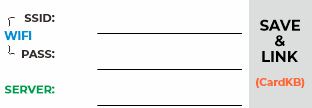
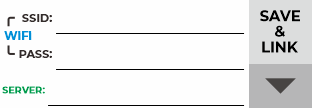
board: Add access code for fire board.

diff --git a/m5stack/modules/startup/fire/apps/dev.py b/m5stack/modules/startup/fire/apps/dev.py
@@ -6,9 +6,7 @@ from .. import app_base
 import M5
 import widgets
 import asyncio
-import requests
 from .. import res
-import os
 import binascii
 import machine
 import network
@@ -49,6 +47,13 @@ _CLOUD_STATUS_ICOS = {
     CloudStatus.DISCONNECTED: res.SERVER_ERROR_IMG,
 }
 
+_BG_COLOR = 0xEEEEEF
+_LABEL_COLOR = 0x008FD7
+_VALUE_COLOR = 0x000000
+_LABEL_FONT = "/system/common/font/Montserrat-Medium-14.vlw"
+_VALUE_FONT = "/system/common/font/Montserrat-Medium-18.vlw"
+_TEXT_PANEL_W = 181
+
 
 class DevApp(app_base.AppBase):
     def __init__(self, icos: dict, data=None) -> None:
@@ -60,9 +65,7 @@ class DevApp(app_base.AppBase):
         M5.Lcd.drawImage(res.DEVELOP_UNSELECTED_IMG, 5 + 62 * 1, 0)
 
     def on_launch(self):
-        self._mac_text = self._get_mac()
-        self._account_text = self._get_account()
-        self._bg_src = self._get_bg_src()
+        self._state = self._collect_state()
         self._status_bar_src = self._get_bar_src()
         self._network_status = self._get_network_status()
         self._cloud_status = self._get_cloud_status()
@@ -72,7 +75,6 @@ class DevApp(app_base.AppBase):
             M5.Power.getBatteryLevel(), M5.Power.isCharging()
         )
         self._battery_text = self._get_battery_text(M5.Power.getBatteryLevel())
-        self._avatar_src = self._get_avatar()
 
     def on_view(self):
         M5.Lcd.drawImage(res.DEVELOP_SELECTED_IMG, 5 + 62 * 1, 0)
@@ -83,38 +85,16 @@ class DevApp(app_base.AppBase):
         self._bg_img = widgets.Image(use_sprite=False, parent=self._lcd)
         self._bg_img.set_pos(4, 4)
         self._bg_img.set_size(312, 156)
-        self._bg_img.set_src(self._bg_src)
+        self._bg_img.set_src(res.DEVELOP_BG_IMG)
+        self._lcd.fillRect(4, 4, _TEXT_PANEL_W, 156, _BG_COLOR)
 
-        self._mac_label = widgets.Label(
-            "aabbcc112233",
-            4 + 6,
-            4 + 57,
-            w=177,
-            fg_color=0x000000,
-            bg_color=0xEEEEEF,
-            font="/system/common/font/Montserrat-Medium-18.vlw",
-            parent=self._lcd,
-        )
-        self._mac_label.set_text(self._mac_text)
+        self._mac_label, self._mac_value = self._create_row("Device MAC:", 8)
+        self._code_label, self._code_value = self._create_row("Access Code:", 59)
+        self._nick_label, self._nick_value = self._create_row("Nickname:", 110)
 
-        self._account_label = widgets.Label(
-            "XXABC",
-            4 + 6,
-            4 + 57 + 40,
-            w=110,
-            h=60,
-            fg_color=0x000000,
-            bg_color=0xEEEEEF,
-            font="/system/common/font/Montserrat-Medium-18.vlw",
-            parent=self._lcd,
-        )
-        self._account_label.set_text(self._account_text)
-
-        self._avatar_img = widgets.Image(use_sprite=False, parent=self._lcd)
-        self._avatar_img.set_pos(130, 100)
-        self._avatar_img.set_size(56, 56)
-        self._avatar_img.set_scale(0.28, 0.28)
-        self._avatar_img.set_src(self._avatar_src)
+        self._set_value(self._mac_value, self._state.get("mac", "-"))
+        self._set_value(self._code_value, self._state.get("pair_code", ""), fallback="")
+        self._set_value(self._nick_value, self._state.get("nick_name", ""), fallback="")
 
         self._bar_img = widgets.Image(use_sprite=False, parent=self._lcd)
         self._bar_img.set_pos(0, 164)
@@ -154,30 +134,17 @@ class DevApp(app_base.AppBase):
         refresh_bg = False
         refresh_bar = False
         while True:
-            t = self._get_bg_src()
-            if t != self._bg_src:
-                self._bg_src = t
-                self._bg_img.set_src(self._bg_src)
+            new_state = self._collect_state()
+
+            if new_state["pair_code"] != self._state.get("pair_code"):
+                self._state["pair_code"] = new_state["pair_code"]
+                self._set_value(self._code_value, new_state["pair_code"], fallback="")
                 refresh_bg = True
 
-            refresh_bg and self._mac_label.set_text(self._mac_text)
-
-            t = self._get_account()
-            if t != self._account_text or refresh_bg:
-                self._account_text = t
-                self._account_label.set_text(self._account_text)
-                self._lcd.push(self._origin_x, self._origin_y)
-
-            t = self._get_avatar()
-            if t != self._avatar_src:
-                self._avatar_src = t
-                try:
-                    os.stat(self._avatar_src)
-                    self._avatar_img.set_src(self._avatar_src)
-                except OSError:
-                    self._dl_task = asyncio.create_task(self._dl_avatar(self._avatar_src))
-            elif refresh_bg:
-                self._avatar_img._draw(False)
+            if new_state["nick_name"] != self._state.get("nick_name"):
+                self._state["nick_name"] = new_state["nick_name"]
+                self._set_value(self._nick_value, new_state["nick_name"], fallback="")
+                refresh_bg = True
 
             t = self._get_bar_src()
             if t != self._status_bar_src:
@@ -219,13 +186,12 @@ class DevApp(app_base.AppBase):
             await asyncio.sleep_ms(1500)
 
     def on_hide(self):
-        if hasattr(self, "_dl_task"):
-            self._dl_task.cancel()
         self._task.cancel()
 
     def on_exit(self):
         M5.Lcd.drawImage(res.DEVELOP_UNSELECTED_IMG, 5 + 62 * 1, 0)
-        del self._bg_img, self._mac_label, self._account_label, self._avatar_img
+        del self._bg_img, self._mac_label, self._mac_value
+        del self._code_label, self._code_value, self._nick_label, self._nick_value
         del self._bar_img, self._network_img, self._cloud_img, self._battery_img
         del self._battery_label
 
@@ -238,58 +204,69 @@ class DevApp(app_base.AppBase):
     async def _btnc_event_handler(self, fw):
         pass
 
-    async def _dl_avatar(self, dst):
-        if _HAS_SERVER is True and M5Things.status() == 2:
-            infos = M5Things.info()
-            if len(infos[4]) == 0:
-                self._avatar_img.set_src("/system/common/img/avatar.jpg")
-            else:
-                try:
-                    rsp = requests.get("https://community.m5stack.com" + str(infos[4]))
-                    f = open(dst, "wb")
-                    f.write(rsp.content)
-                    f.close()
-                    rsp.close()
-                    self._avatar_img.set_src(dst)
-                except:
-                    self._avatar_img.set_src("/system/common/img/avatar.jpg")
-                finally:
-                    self._lcd.push(self._origin_x, self._origin_y)
-        else:
-            self._avatar_img.set_src("/system/common/img/avatar.jpg")
+    def _create_row(self, label_text, y):
+        label = widgets.Label(
+            label_text,
+            12,
+            y,
+            w=_TEXT_PANEL_W - 18,
+            h=20,
+            fg_color=_LABEL_COLOR,
+            bg_color=_BG_COLOR,
+            font=_LABEL_FONT,
+            parent=self._lcd,
+        )
+        label.set_text(label_text)
+
+        value = widgets.Label(
+            "",
+            12,
+            y + 22,
+            w=_TEXT_PANEL_W - 18,
+            h=26,
+            fg_color=_VALUE_COLOR,
+            bg_color=_BG_COLOR,
+            font=_VALUE_FONT,
+            parent=self._lcd,
+        )
+        value.set_long_mode(widgets.Label.LONG_DOT)
+        return label, value
+
+    @staticmethod
+    def _set_value(label, text, fallback="-"):
+        text = fallback if text is None or text == "" else str(text)
+        label.set_text(text)
 
     @staticmethod
     def _get_mac():
-        return binascii.hexlify(machine.unique_id()).upper()
+        return binascii.hexlify(machine.unique_id()).decode("utf-8").upper()
 
     @staticmethod
-    def _get_account():
-        if _HAS_SERVER is True and M5Things.status() == 2:
-            infos = M5Things.info()
-            return "None" if len(infos[1]) == 0 else infos[1]
-        else:
-            return "None"
+    def _get_pair_code():
+        if _HAS_SERVER is True:
+            try:
+                if M5Things.status() == 2:
+                    return M5Things.paircode() or ""
+            except Exception:
+                pass
+        return ""
 
     @staticmethod
-    def _get_avatar():
-        if _HAS_SERVER is True and M5Things.status() == 2:
-            infos = M5Things.info()
-            if len(infos[4]) == 0:
-                return "/system/common/img/avatar.jpg"
-            else:
-                return "/system/common/img/" + str(infos[4]).split("/")[-1]
-        else:
-            return "/system/common/img/avatar.jpg"
+    def _get_nick_name():
+        if _HAS_SERVER is True:
+            try:
+                if M5Things.status() == 2:
+                    return M5Things.nick_name() or ""
+            except Exception:
+                pass
+        return ""
 
-    def _get_bg_src(self):
-        if _HAS_SERVER is True and M5Things.status() == 2:
-            infos = M5Things.info()
-            if infos[0] == 0:
-                return "/system/fire/developPrivate.png"
-            elif infos[0] in (1, 2):
-                return "/system/fire/developPublic.png"
-        else:
-            return "/system/fire/developPrivate.png"
+    def _collect_state(self):
+        return {
+            "mac": self._get_mac(),
+            "pair_code": self._get_pair_code(),
+            "nick_name": self._get_nick_name(),
+        }
 
     def _get_bar_src(self):
         if _HAS_SERVER is True and M5Things.status() == 2:

diff --git a/m5stack/modules/startup/fire/apps/app_run.py b/m5stack/modules/startup/fire/apps/app_run.py
@@ -12,13 +12,6 @@ import os
 import time
 from .. import res
 
-try:
-    import M5Things
-
-    _HAS_SERVER = True
-except ImportError:
-    _HAS_SERVER = False
-
 
 class RunApp(app_base.AppBase):
     def __init__(self, icos: dict, data=None) -> None:
@@ -28,7 +21,7 @@ class RunApp(app_base.AppBase):
         M5.Lcd.drawImage(res.APPRUN_UNSELECTED_IMG, 5 + 62 * 2, 0)
 
     def on_launch(self):
-        self._mtime_text, self._account_text, self._ver_text = self._get_file_info("main.py")
+        self._mtime_text, self._ver_text = self._get_file_info("main.py")
 
     def on_view(self):
         M5.Lcd.drawImage(res.APPRUN_SELECTED_IMG, 5 + 62 * 2, 0)
@@ -58,21 +51,10 @@ class RunApp(app_base.AppBase):
         )
         self._mtime_label.set_text(self._mtime_text)
 
-        self._account_label = widgets.Label(
-            "Account: XXABC",
-            4 + 10 + 8,
-            (56 + 4) + 4 + 20 + 6 + 18,
-            w=312,
-            fg_color=0x000000,
-            bg_color=0xDCDDDD,
-            font="/system/common/font/Montserrat-Medium-16.vlw",
-        )
-        self._account_label.set_text(self._account_text)
-
         self._ver_label = widgets.Label(
             "Ver: UIFLOW2.0 a18",
             4 + 10 + 8,
-            (56 + 4) + 4 + 20 + 6 + 18 + 18,
+            (56 + 4) + 4 + 20 + 6 + 18,
             w=312,
             fg_color=0x000000,
             bg_color=0xDCDDDD,
@@ -88,7 +70,7 @@ class RunApp(app_base.AppBase):
 
     def on_exit(self):
         M5.Lcd.drawImage(res.APPRUN_UNSELECTED_IMG, 5 + 62 * 2, 0)
-        del self._name_label, self._mtime_label, self._account_label, self._ver_label
+        del self._name_label, self._mtime_label, self._ver_label
 
     async def _btna_event_handler(self, fw):
         pass
@@ -106,7 +88,6 @@ class RunApp(app_base.AppBase):
     @staticmethod
     def _get_file_info(path):
         mtime = None
-        account = None
         ver = f"Ver: UIFLOW2 {esp32.firmware_info()[3]}"
 
         try:
@@ -124,17 +105,8 @@ class RunApp(app_base.AppBase):
 
         with open(path, "r") as f:
             for line in f:
-                if line.find("Account") != -1:
-                    account = line.split(":")[1].strip()
                 if line.find("Ver") != -1:
                     ver = line.split(":")[1].strip()
-                if account is not None and ver is not None:
                     break
 
-        if account is None and _HAS_SERVER and M5Things.status() == 2:
-            infos = M5Things.info()
-            account = "Account: None" if len(infos[1]) == 0 else "Account: {:s}".format(infos[1])
-        else:
-            account = "Account: None"
-
-        return (mtime, account, ver)
+        return (mtime, ver)

diff --git a/m5stack/modules/startup/fire/apps/settings.py b/m5stack/modules/startup/fire/apps/settings.py
@@ -36,9 +36,9 @@ class WiFiSetting(app_base.AppBase):
 
         self._ssid_label = widgets.Label(
             "ssid",
-            self._origin_x + 98,
+            self._origin_x + 56 + 2,
             self._origin_y + 12,
-            w=144,
+            w=180,
             font_align=widgets.Label.LEFT_ALIGNED,
             fg_color=0x000000,
             bg_color=0xFEFEFE,
@@ -50,9 +50,9 @@ class WiFiSetting(app_base.AppBase):
 
         self._psk_label = widgets.Label(
             "pwd",
-            self._origin_x + 98,
+            self._origin_x + 56 + 2,
             self._origin_y + 12 + 35,
-            w=144,
+            w=180,
             font_align=widgets.Label.LEFT_ALIGNED,
             fg_color=0x000000,
             bg_color=0xFEFEFE,
@@ -67,9 +67,9 @@ class WiFiSetting(app_base.AppBase):
 
         self._server_label = widgets.Label(
             "server",
-            self._origin_x + 98,
+            self._origin_x + 56 + 2,
             self._origin_y + 12 + 35 + 34,
-            w=144,
+            w=190,
             font_align=widgets.Label.LEFT_ALIGNED,
             fg_color=0x000000,
             bg_color=0xFEFEFE,

diff --git a/m5stack/modules/startup/fire/res.py b/m5stack/modules/startup/fire/res.py
@@ -37,6 +37,7 @@ _attrs = {
     "BOOT_YES_IMG": "/system/fire/boot_Yes.png",
     "DEVELOP_SELECTED_IMG": "/system/fire/develop_selected.png",
     "DEVELOP_UNSELECTED_IMG": "/system/fire/develop_unselected.png",
+    "DEVELOP_BG_IMG": "/system/fire/develop_bg.jpg",
     "DEVELOP_PRIVATE_IMG": "/system/fire/developPrivate.png",
     "DEVELOP_PUBLIC_IMG": "/system/fire/developPublic.png",
     "EZDATA_SELECTED_IMG": "/system/fire/ezdata_selected.png",